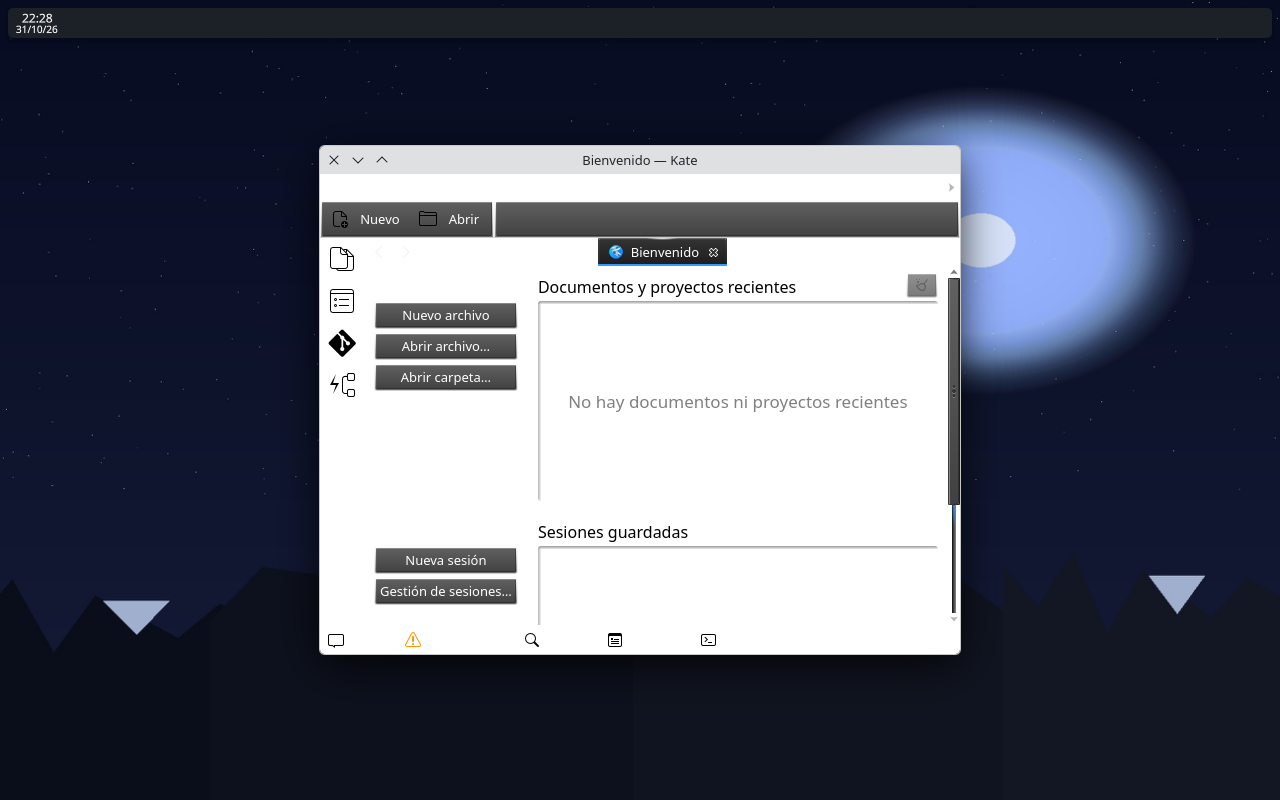
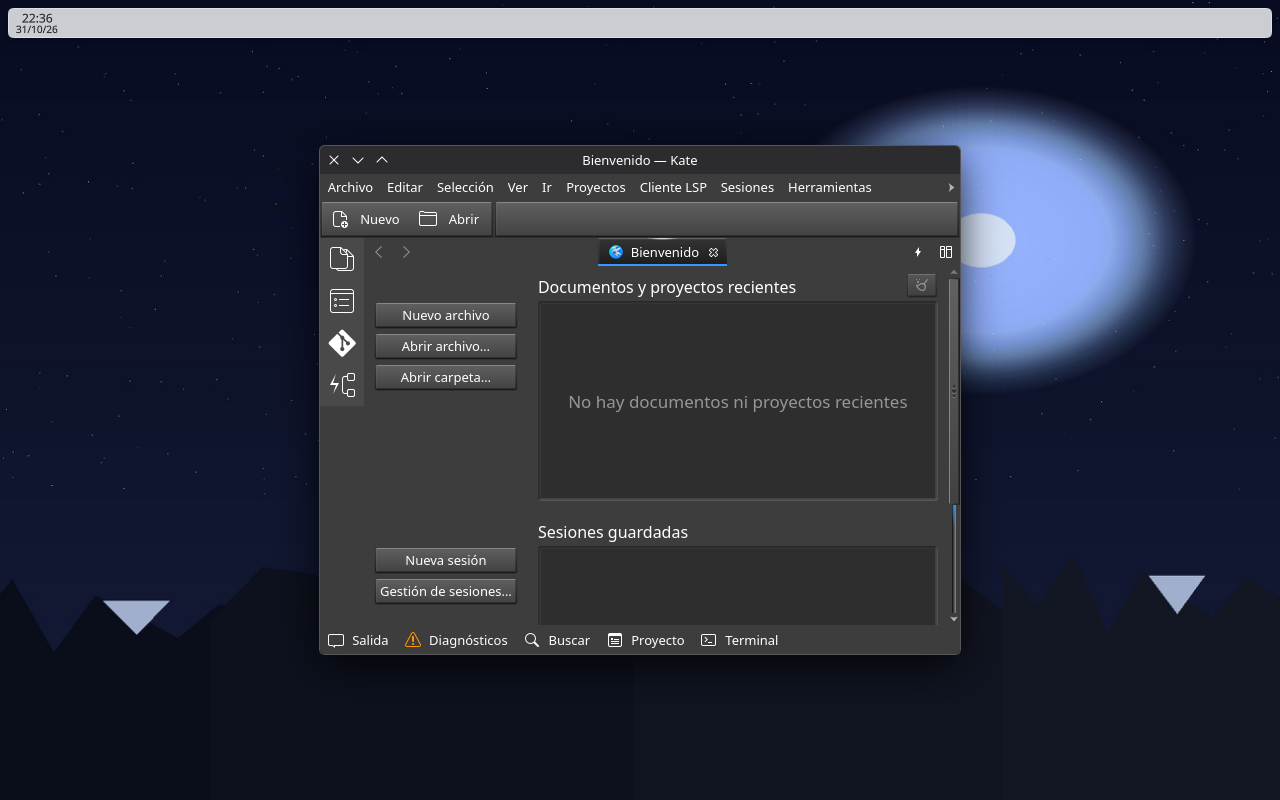
docs(F3-T11): diagnóstico off-by-one del panel en vivo + Ruling R-F3T11-LIVE

diff --git a/docs/plans/evidence/F3-T11-nested.md b/docs/plans/evidence/F3-T11-nested.md
@@ -84,8 +84,29 @@ hasta 3 veces con puerta de brillo PIL que rechaza capturas casi negras).
 - Capturas `spikes/nested/f3-theme-live-light.png` /
   `f3-theme-live-dark.png`: el **wallpaper NPS cambia en vivo**
   (sequoia-light ↔ sequoia-dark, visible en ambas).
-- Medidas PIL (L 0-255): panel (y0-30) `54.8` → `26.9` (cambia en vivo);
-  frame completo `94.0` → `91.2` (fondos distintos, media similar).
+- Medidas PIL (L 0-255): panel-centro (x300-980,y0-28) `55.6` → `150.8`
+  (¡invertido!); frame completo `94.0` → `98.1`.
+- Kate SÍ sigue al switch actual tras ordenar fichero-antes-que-vivo en
+  `nimbus-theme` (captura light 22:32: sidebar y contenido claros).
+- **Diagnóstico panel (triple switch light→dark→light2 + captura
+  `f3-theme-live-light2.png`): panel-centro `55.6` / `150.8` / `55.6` —
+  cada captura renderiza el switch ANTERIOR, determinista al decimal,
+  inmune a esperas de 15 s y a doble `KWin reconfigure` + evaluateScript.
+  Estado de sesión verificado correcto en vivo tras cada switch
+  (`-l` lista `NimbusTahoeLight (esquema actual)`, desktoptheme
+  `breeze-light (current)`, `kreadconfig` ambos, scheme-file claro
+  `BackgroundNormal=255,255,255` en `XDG_DATA_HOME` re-sincronizado).
+  Causa raíz no aislada en timebox; NO es orden fichero/vivo (se probó
+  ambos), ni falta de scheme en `XDG_DATA_HOME` (re-sync añadido), ni
+  espera.
+- **Ruling propuesto (R-F3T11-LIVE):** en Plasma 6.8 el estado de esquema/
+  tema se aplica en vivo sin reinicio (verificado), pero el render del
+  panel de plasmashell avanza un evento de switch; en VM/real, validar el
+  panel contra configuración aplicada al arrancar (vía fichero: renderiza
+  correcto, `f3-theme-light.png` panel `172`) o exigir doble switch, no
+  contra un único switch en vivo. Tarea NO marcada: pendiente aislar el
+  evento que completa el render (candidatos: señal diferida de
+  plasma-apply-desktoptheme, re-lectura de plasmarc [Theme]).
 - Gaps medidos: deco KWin sin cambio en vivo (`179` → `176`, requiere
   reconfigurar KWin); Kate queda en estado mixto (sidebar sigue la variante,
   menús/tab con retardo ≈ un switch: `82` → `229` invertido), retardo de
